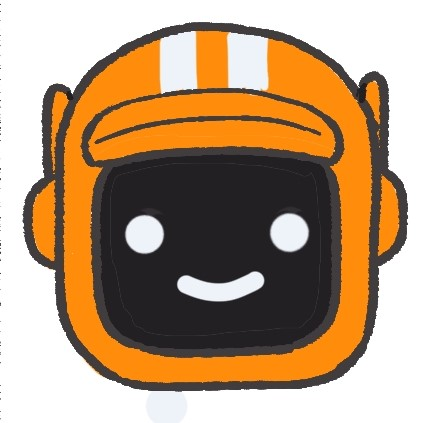
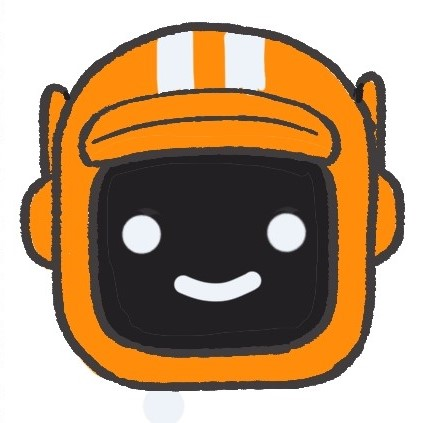
trying to animate

diff --git a/public/audioChatClient.js b/public/audioChatClient.js
@@ -63,7 +63,7 @@ document.addEventListener("DOMContentLoaded", () => {
         }
     }
 
-    /*
+    
     function getTone(text) {
       return new Promise((resolve, reject) => {
         let reqData = {text: text}
@@ -78,30 +78,61 @@ document.addEventListener("DOMContentLoaded", () => {
             log("Resp from server: " + toneObj)
 
             if (toneObj.tone == 'positive' && text[text.length - 1] == '!') {
-              return 'excited'
+              resolve('excited')
             }
             else if (toneObj.tone == 'negative') {
-              return 'serious'
+              resolve('serious')
             }
             else {
-              return toneObj.tone
+              resolve(toneObj.tone)
             }
-          } else {
-            reject(new Error('Request failed with status ' + xr.status))
+          // } else {
+          //   reject(new Error('Request failed with status ' + xr.status))
           }
         }
       })
     }
 
+    
+    function getTone2(text) {
+      return new Promise((resolve, reject) => { 
+        fetch(serverPort + '/getTone', {
+          method: 'POST', headers: { "Content-Type": "application/json" }, 
+          body: JSON.stringify({text: text})
+
+        }).then((resp) => {
+          if (resp.status != 200) throw new Error("Error getting response from /getTone")
+          return resp.json()
+
+        }).then((toneObj)=> {
+          log("Resp from server: " + toneObj)
+
+          if (toneObj.tone == 'positive' && text[text.length - 1] == '!') {
+            resolve('excited')
+          }
+          else if (toneObj.tone == 'negative') {
+            resolve('serious')
+          }
+          else {
+            resolve(toneObj.tone)
+          }
+
+        }).catch((err)=> {
+          reject(err)
+        })
+      })
+    }
+
+    /*
     function animationWithTTS(text) {
       let sentences = text.split('. ')
       let tone = ''
-      let utterance = new SpeechSynthesisUtterance(text);
+      const utterance
 
       for (sentence in sentences) {
-        tone = getTone(sentence)  //if sentence ends with '!', tone = excited
+        tone = getTone(sentence)  
         let botExpressionFilename = getExpressionImg(tone) 
-        TTS(utterance, sentence)
+        utterance = TTS(sentence)
         botImg.src = '../assets/animationImages/' + botExpressionFilename
       }
 
@@ -109,13 +140,13 @@ document.addEventListener("DOMContentLoaded", () => {
         botImg.src = '../assets/animationImages/'
 
         if (tone == 'positive' || tone == 'neutral') {
-          botImg.src += 'positiveNoTalk.jpg'
+          botImg.src += 'noTalkPositive.jpg'  
         }
         else if (tone == 'excited') { 
-          botImg.src += 'excitedNoTalk.jpg'
+          botImg.src += 'noTalkExcited.jpg'
         }
         else {  //serious
-          botImg.src += 'seriousNoTalk.jpg'
+          botImg.src += 'noTalkSerious.jpg'
         }
       }
         
@@ -164,4 +195,13 @@ document.addEventListener("DOMContentLoaded", () => {
 
         transcript = ""
     });
+
+    //test
+    text1 = "Before adopting, it’s important to consider the commitment and responsibility of pet ownership"
+    text2 = "The text you provided acknowledges the gravity of loss and suffering caused by war. It emphasizes the importance of recognizing the human cost and seeking peaceful resolutions"
+    text3 = "What's 3 * 9?"
+    text4 = "Good luck with your project!"
+    getTone2(text1).then(tone => {
+      log(text1 + "\ntone: " + tone)
+    })
 });

diff --git a/public/index.html b/public/index.html
@@ -17,14 +17,14 @@
     <a class="navbar-brand nav-title" href="#"> Chatbot </a>
   </nav>
 
-  <!-- sample messages -->  
   <div class="message-area mx-auto mode active" id="text-mode"></div>
 
   <div class="mode" id="talk-mode">
-    <img id="bot-img" src="../assets/animationImages/positiveNotTalk.jpg" alt=""> 
-    <!--  -->
+    <div id="img-div"> 
+      <img id="bot-img" src="../assets/animationImages/noTalkPositive.jpg" alt=""> 
+    </div>
   </div>
-
+  
 
   <div class="input-div fixed-bottom d-flex flex-column align-items-center">
     <div class="mb-2">
@@ -52,6 +52,7 @@
   </div>
 
   <script src="https://code.jquery.com/jquery-3.5.1.slim.min.js"></script>
+  <script src="global.js"></script>
   <script src="buttonsListener.js"></script>
   <script src="textChatClient.js"></script>
   <script src="audioChatClient.js"></script>

diff --git a/public/styles.css b/public/styles.css
@@ -10,6 +10,10 @@
   color: white;
   padding: 10px;
 }
+#message-audio-area {
+  display: flex;
+  height: 80vh;
+}
 .message-area {
   background-color: white;
   max-width: 500px;
@@ -44,7 +48,7 @@
 
 /* Audio chat */
 #bot-img {
-  width: 200px;
+  width: 300px;
 }
 
 #bot-img-div {
@@ -59,7 +63,11 @@
   display: flex;
   justify-content: center;
   align-items: center;
-  height: 100%;
+  height: 80vh;
+}
+
+#img-div {
+  display: flex;
 }
 
 #bot-img {

diff --git a/public/textChatClient.js b/public/textChatClient.js
@@ -1,7 +1,6 @@
 let sendButton = document.querySelector(".send-button")
 let inputField = document.querySelector(".input-field")
 let messageArea = document.querySelector(".message-area")
-serverPort = 'http://127.0.0.1:8000'
 
 
 //functions (event listeners below)

diff --git a/public/global.js b/public/global.js
@@ -1,0 +1,2 @@
+
+const serverPort = 'http://127.0.0.1:8000'

diff --git a/app.py b/app.py
@@ -96,6 +96,15 @@ def getResponse():
   return jsonify(resp)
 
 
+@app.route("/getTone", methods=["POST"])
+def getTone():
+  text = request.get_json()['text']
+  resp = {"tone": getTone(text)}
+
+  return jsonify(resp)
+
+
+
 @app.route("/test", methods=["POST"])
 def test():
   data = request.get_json() 
@@ -103,9 +112,6 @@ def test():
 
   resp = {"message": "Thanks"}
   return jsonify(resp)
-
-
-getTone("The text you provided acknowledges the gravity of loss and suffering caused by war. It emphasizes the importance of recognizing the human cost and seeking peaceful resolutions")
 
 
 if __name__ == "__main__":

diff --git a/tempCodeRunnerFile.py b/tempCodeRunnerFile.py
@@ -1,0 +1,1 @@
+The text you provided acknowledges the gravity of loss and suffering caused by war. It emphasizes the importance of recognizing the human cost and seeking peaceful resolutions
